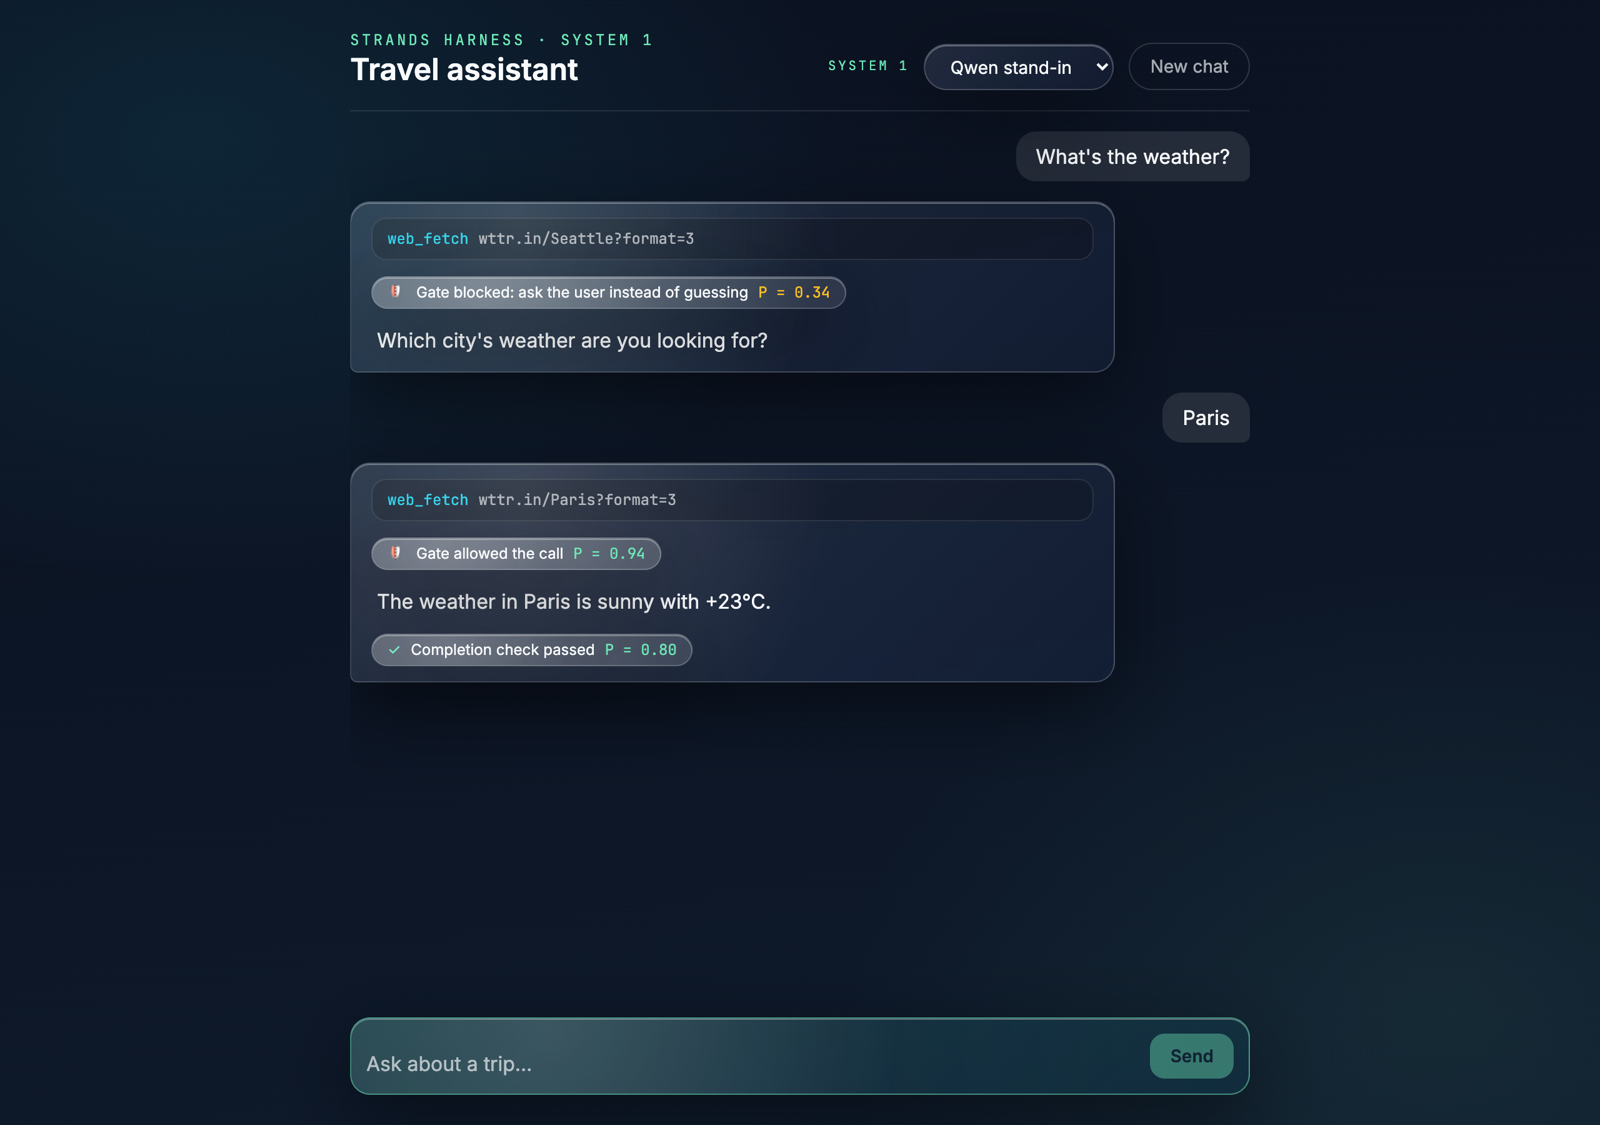
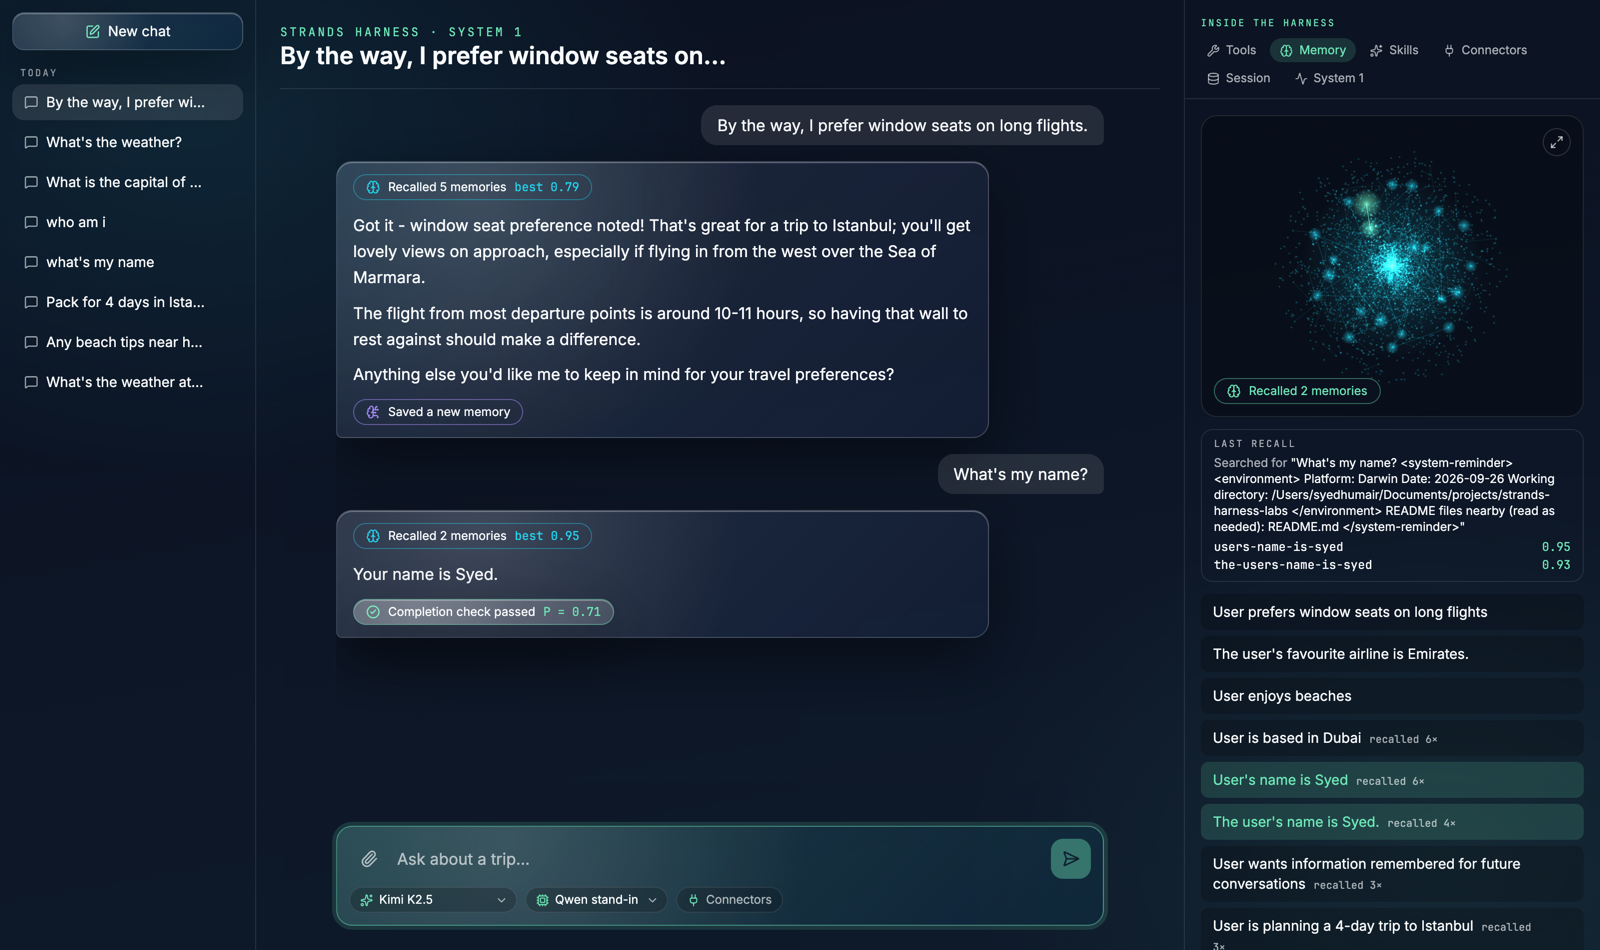
README: lab 11 as the harness app; cleanup.sh offers to remove lab11/data

diff --git a/README.md b/README.md
@@ -155,13 +155,24 @@ Contenders you haven't set up are skipped with a one-line hint.
 **Setup:** the same as lab 6a–6d; each contender is optional.
 **Run:** `uv run labs/lab10_system1_showdown.py`
 
-### Lab 11: Web Chat UI
-**Files:** `lab11/server/` (API) and `lab11/web/` (React)
-The finished assistant — web fetch, memory, the packing-list skill, lab 7's gate and lab 8's
-completion check — behind a small API, in a chat UI styled with the Developer Studio theme. Pick the
-System 1 model in the header; each decision appears as a chip naming the rule and its probability.
-**What's new:** `agent.stream_async()` turned into a stream of JSON events; the gate and check
-subclassed to report their decisions
+### Lab 11: The Harness App
+**Folder:** `lab11/` — `server/` (FastAPI) and `web/` (React + Vite + Tailwind, lucide icons)
+The finished travel assistant as a web app that shows everything the harness does:
+
+- **Chat history** — every chat is a harness session saved to disk; reopen it after a restart.
+- **Model pickers** under the chat — the LLM (Kimi K2.5, Nemotron, Claude Sonnet 5, Kimi K3, local
+  gpt-oss) and the System 1 model (Qwen stand-in, Jev, Kev, Laya). Switch the LLM mid-chat; history carries over.
+- **Attach files** — the agent reads them with the harness's built-in `read` tool.
+- **Connectors** — turn on MCP servers (AWS Documentation, the chat's files, or your own command).
+- **Inside the harness** — tools, skills, session, connectors, and every System 1 decision.
+- **The memory core** — a rotating nebula of your memories. Recalled notes fire in green (hover a chip to
+  see what was searched and each note's score); newly saved notes arrive in violet; forget any note.
+  System 1 decides what to recall: for each note it answers *"would this fact help answer the message?"*,
+  and only notes at 0.5 or above are used — the harness's own keyword search recalls notes for almost any
+  question. The harness has no forget tool, but its memories are plain markdown files, so forgetting deletes one.
+
+**What's new:** `create_harness(session={"id", "dir"}, memory={"stores": [...]}, mcp_servers=...)`,
+`agent.stream_async()` as a stream of JSON events, lab 7's gate and lab 8's check reused per chat
 **Video:** _coming soon_
 **Run:**
 ```bash
@@ -169,10 +180,12 @@ uv sync --extra web
 uv run --extra web lab11/server/app.py        # API on http://127.0.0.1:8000
 cd lab11/web && npm install && npm run dev    # UI on http://localhost:5173
 ```
-**Extending it:** add endpoints in `lab11/server/app.py`; add an event type there and a `case`
-in `lab11/web/src/chat.ts`. The UI only reads events, so any web framework can replace `lab11/web/`.
+**Extending it:** add routes in `lab11/server/app.py`, an event type in `lab11/server/events.py`, and
+a `case` in `lab11/web/src/chat.ts`. The UI only reads events, so any web framework can replace `lab11/web/`.
+Runtime data (chats, sessions, files, memory) lives in `lab11/data/`; `./cleanup.sh` offers to remove it.
 
-![Lab 11: the gate blocks a guessed city, then allows Paris](docs/lab11.png)
+![Lab 11: chat history, recalled memories and System 1 decisions](docs/lab11.png)
+![The memory core](docs/lab11-memory.png)
 
 ## 🧠 What is a System 1 model?
 
